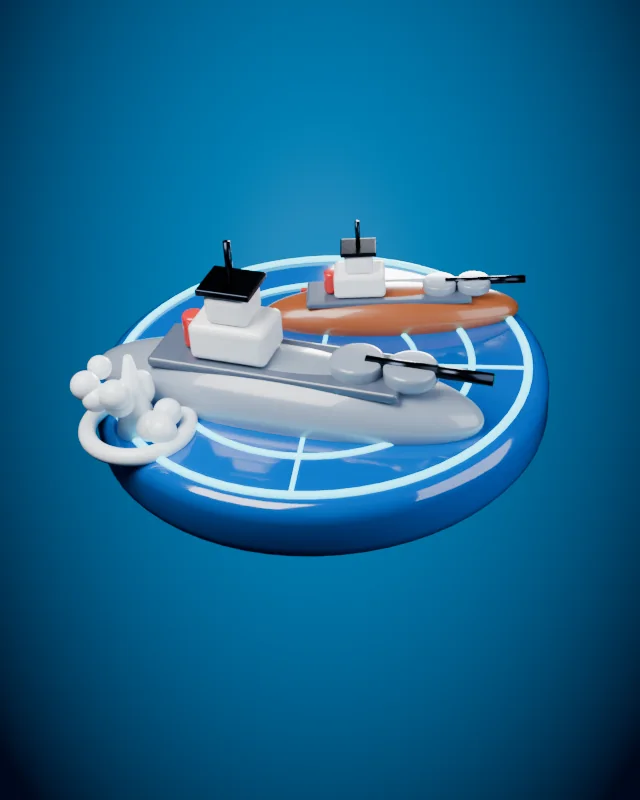
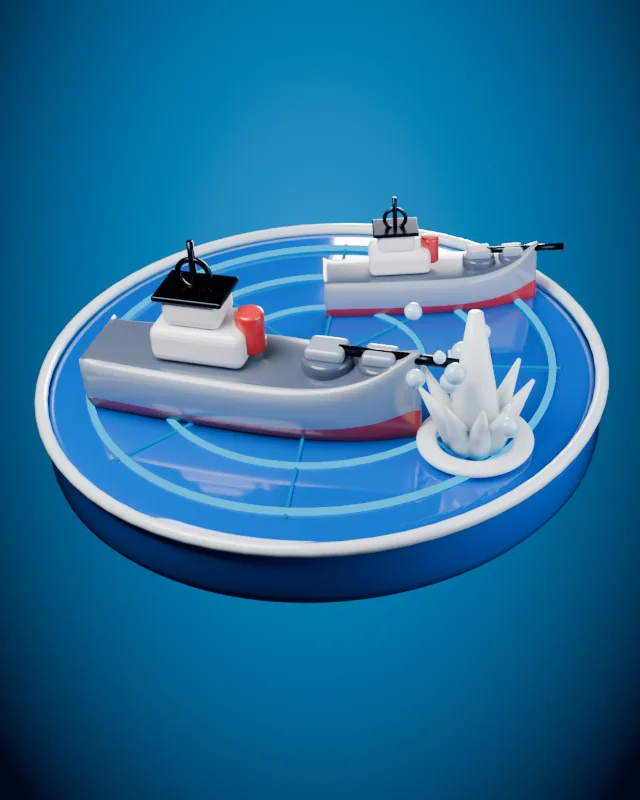
Work in progress: poker verification, card covers, new games
Claude-Session: https://claude.ai/code/session_01MHknEQHwoRP7PDrNv3vHVE

diff --git a/tools/covers/squad.py b/tools/covers/squad.py
@@ -1,27 +1,46 @@
 import sys, os, random
 sys.path.insert(0, os.path.dirname(os.path.abspath(__file__)))
-from rig import *
+from props import *
+import bmesh
 random.seed(5)
 S = int(os.environ.get('SAMPLES', 128))
-new_scene('#ffae3d', '#4a1438', samples=S)
+new_scene('#ff9a3a', '#3a0c34', samples=S)
 sand = glossy('#c98a45', 0.55, 0.2); sand2 = glossy('#8f5a2c', 0.55, 0.2)
 tan = glossy('#e0c07a', 0.35, 0.5); olive = glossy('#7d8f45', 0.35, 0.5); brown = glossy('#8a5a2b', 0.35, 0.5)
 trk = glossy('#3a3a3e', 0.5, 0.2); steel = metal('#4d4f55', 0.35); wheelm = glossy('#6d6a60', 0.4, 0.3)
-fire1 = emit('#ff4a00', 0.55); fire2 = emit('#ff9a00', 0.9); fire3 = emit('#e01800', 0.45)
+fire1 = flame('#ff3a00', 0.9, 'f1'); fire2 = flame('#ffa800', 1.1, 'f2'); fire3 = flame('#c81000', 0.8, 'f3')
 smoke = glossy('#3a3236', 0.8, 0.0); smoke2 = glossy('#5e5258', 0.8, 0.0); rub = glossy('#9a7a55', 0.6, 0.1)
+def wedge(L, W, H, h2, mat, loc):
+    """side profile: rear height H, front height h2 (sloped glacis), along +x, width W (y)."""
+    bm = bmesh.new()
+    pr = [(-L / 2, 0), (L / 2, 0), (L / 2, h2), (-L / 2, H)]
+    a = [bm.verts.new((x, -W / 2, z)) for x, z in pr]
+    b = [bm.verts.new((x, W / 2, z)) for x, z in pr]
+    bm.faces.new(a[::-1]); bm.faces.new(b)
+    for i in range(4):
+        bm.faces.new((a[i], a[(i + 1) % 4], b[(i + 1) % 4], b[i]))
+    me = bpy.data.meshes.new('wedge'); bm.to_mesh(me); bm.free()
+    o = bpy.data.objects.new('wedge', me); bpy.context.scene.collection.objects.link(o)
+    o.location = loc; o.data.materials.append(mat)
+    bv = o.modifiers.new('bv', 'BEVEL'); bv.width = 0.1; bv.segments = 4
+    return o
+
+
 objs = []
 objs.append(cylinder(3.3, 0.5, sand, (0, 0, -0.25), bevel=0.22, seg=96))
 objs.append(cylinder(3.25, 0.6, sand2, (0, 0, -0.75), bevel=0.15, seg=96))
 # explosion behind
-fx = [(2.0, 1.2, 1.1, 1.0, fire3), (2.6, 1.0, 1.7, 0.8, fire1), (1.4, 1.4, 1.7, 0.75, fire1), (2.0, 0.8, 1.7, 0.55, fire2),
-      (2.5, 0.7, 1.1, 0.55, fire2), (1.8, 1.2, 2.4, 0.5, fire1), (3.0, 1.0, 2.2, 0.4, fire3), (1.0, 1.4, 1.1, 0.45, fire3)]
+fx = [(2.0, 1.2, 1.0, 1.0, fire3), (2.6, 1.0, 1.4, 0.8, fire1), (1.4, 1.4, 1.4, 0.7, fire1), (2.0, 0.8, 1.5, 0.5, fire2),
+      (2.5, 0.7, 1.0, 0.5, fire2), (1.0, 1.4, 1.0, 0.45, fire3)]
 for x, y, z, r, m in fx:
     objs.append(sphere(r, m, (x, y, z), seg=32))
+for x, y, z, h, m in [(1.4, 1.2, 1.9, 1.5, fire1), (2.0, 1.1, 2.2, 1.9, fire2), (2.6, 1.0, 2.0, 1.4, fire1), (1.8, 1.0, 1.7, 1.2, fire3), (2.3, 0.8, 1.8, 1.3, fire2)]:
+    objs.append(cone(0.55, 0.0, h, m, (x, y, z), seg=24))
 for x, z, r, m in [(2.2, 2.9, 0.8, smoke), (1.4, 2.6, 0.6, smoke2), (3.0, 2.8, 0.55, smoke2), (2.4, 3.6, 0.55, smoke), (3.4, 2.0, 0.5, smoke)]:
     objs.append(sphere(r, m, (x, 1.3, z), seg=32))
 for i in range(10):
     a = random.uniform(0, 6.28)
-    objs.append(sphere(random.uniform(0.07, 0.14), fire2, (2.1 + math.cos(a)*random.uniform(1.2, 1.8), 0.6, 1.8 + math.sin(a)*random.uniform(1.0, 1.4)), seg=12))
+    objs.append(sphere(random.uniform(0.08, 0.15), fire2, (2.1 + math.cos(a)*random.uniform(1.2, 1.8), 0.6, 1.8 + math.sin(a)*random.uniform(1.0, 1.4)), seg=12))
 # tank
 t = []
 t.append(box((3.2, 0.5, 0.8), trk, (0, -1.0, 0.55), bevel=0.2))
@@ -32,7 +51,7 @@ for sy in (-1, 1):
     t.append(cylinder(0.12, 0.58, trk, (1.45, sy*1.0, 0.55), rot=(90, 0, 0), bevel=0.02))
     t.append(box((3.0, 0.62, 0.12), tan, (0, sy*1.0, 0.95), bevel=0.04))
 t.append(box((2.8, 1.8, 0.55), tan, (0, 0, 0.95), bevel=0.14))
-t.append(box((1.0, 1.7, 0.4), tan, (1.5, 0, 0.9), rot=(0, 28, 0), bevel=0.1))
+t.append(wedge(1.1, 1.8, 0.55, 0.2, tan, (1.95, 0, 0.7)))
 # camo patches
 for x, y, c in [(-0.8, -0.5, olive), (0.4, 0.45, brown), (-0.3, 0.6, olive), (0.9, -0.55, brown), (-1.2, 0.3, brown)]:
     t.append(sphere(0.4, c, (x, y, 1.2), scale=(1.3, 1.0, 0.14)))

diff --git a/tools/covers/naval.py b/tools/covers/naval.py
@@ -49,27 +49,28 @@ def hull(L, B, D, mat):
     sm.levels = sm.render_levels = 2
     for p in mesh.polygons:
         p.use_smooth = True
-    o.data.materials.append(mat)
+    for mm in (mat, dgrey, red):
+        o.data.materials.append(mm)
+    for p in mesh.polygons:
+        zc = p.center.z
+        p.material_index = 1 if p.normal.z > 0.9 and zc > 0.2 * D else (2 if zc < -0.28 * D else 0)
     bpy.context.view_layer.objects.active = o
     return o
 
 
 def ship(x, y, ang, sc, kind=0):
-    p = [hull(3.4, 1.0, 0.5, grey)]
-    p.append(box((3.0, 0.8, 0.07), dgrey, (-0.05, 0, 0.27), bevel=0.02))                   # deck
-    p.append(box((3.35, 0.86, 0.1), red, (-0.1, 0, -0.18), bevel=0.04))                    # waterline stripe
-    p[-1].scale = (0.97, 0.98, 1)
+    p = [hull(3.5, 1.1, 0.6, grey)]
     p.append(box((1.0, 0.64, 0.4), white, (-0.5, 0, 0.5), bevel=0.1))
     p.append(box((0.62, 0.5, 0.3), white, (-0.55, 0, 0.85), bevel=0.09))
     p.append(box((0.74, 0.56, 0.06), steel, (-0.55, 0, 1.03), bevel=0.02))
     p.append(cylinder(0.035, 0.55, steel, (-0.55, 0, 1.3), bevel=0.0, seg=12))
-    p.append(cylinder(0.2, 0.2, red, (-0.55, 0, 1.35), rot=(0, 90, 0), bevel=0.02, seg=24).__class__ and cylinder(0.14, 0.4, red, (-1.1, 0, 0.62), bevel=0.04, seg=24))
+    p.append(cylinder(0.15, 0.45, red, (0.0, 0, 0.62), bevel=0.04, seg=24))
     p.append(torus(0.17, 0.03, steel, (-0.55, 0, 1.2), rot=(90, 0, 0)))
     for tx, sz in ((0.8, 1.0), (1.35, 0.85)):
         p.append(cylinder(0.27 * sz, 0.18, dgrey, (tx, 0, 0.36), bevel=0.05, seg=32))
         p.append(box((0.4 * sz, 0.32 * sz, 0.14), grey, (tx, 0, 0.5), bevel=0.05))
         p.append(cylinder(0.055, 0.85 * sz, steel, (tx + 0.55 * sz, 0.0, 0.52), rot=(0, 90, 0), bevel=0.0, seg=16))
-    return parent(p, loc=(x, y, 0), rot=(0, 0, ang), scale=sc)
+    return parent(p, loc=(x, y, 0.42 * sc), rot=(0, 0, ang), scale=sc)
 
 
 objs = []
@@ -82,12 +83,9 @@ for a in (0, 90, 45, 135):
     b.rotation_euler = (0, 0, math.radians(a))
     objs.append(b)
 # sweep wedge
-sw = cone(2.9, 0.0, 0.02, flame('#0e9ee8', 0.6, 'sweep'), (0, 0, 0.02), seg=3)
 objs.append(ship(-0.6, -1.1, -10, 1.15))
 objs.append(ship(1.3, 1.5, 8, 0.8))
 # wake foam behind big ship
-for k in range(5):
-    objs.append(sphere(0.3 - k * 0.04, foam, (-2.5 - k * 0.45, -1.0 - k * 0.1, 0.03), scale=(1.8, 1.0, 0.18), seg=24))
 # crown splash (shell hit) front right
 sx, sy = 2.0, -1.6
 objs.append(torus(0.55, 0.12, foam, (sx, sy, 0.1), scale=(1, 1, 0.6)))
@@ -100,5 +98,5 @@ objs.append(cone(0.34, 0.08, 1.7, foam, (sx, sy, 0.95)))
 for k in range(10):
     a = random.uniform(0, 6.28); r = random.uniform(0.5, 1.0)
     objs.append(sphere(random.uniform(0.07, 0.14), drop, (sx + math.cos(a) * r, sy + math.sin(a) * r * 0.8, random.uniform(0.5, 1.6)), seg=16))
-fit_g = parent(objs, loc=(0, 0, 0.8), rot=(24, 0, -8), scale=0.7)
+fit_g = parent(objs, loc=(0, 0, 0.8), rot=(24, 0, -8), scale=0.76)
 render('naval')
